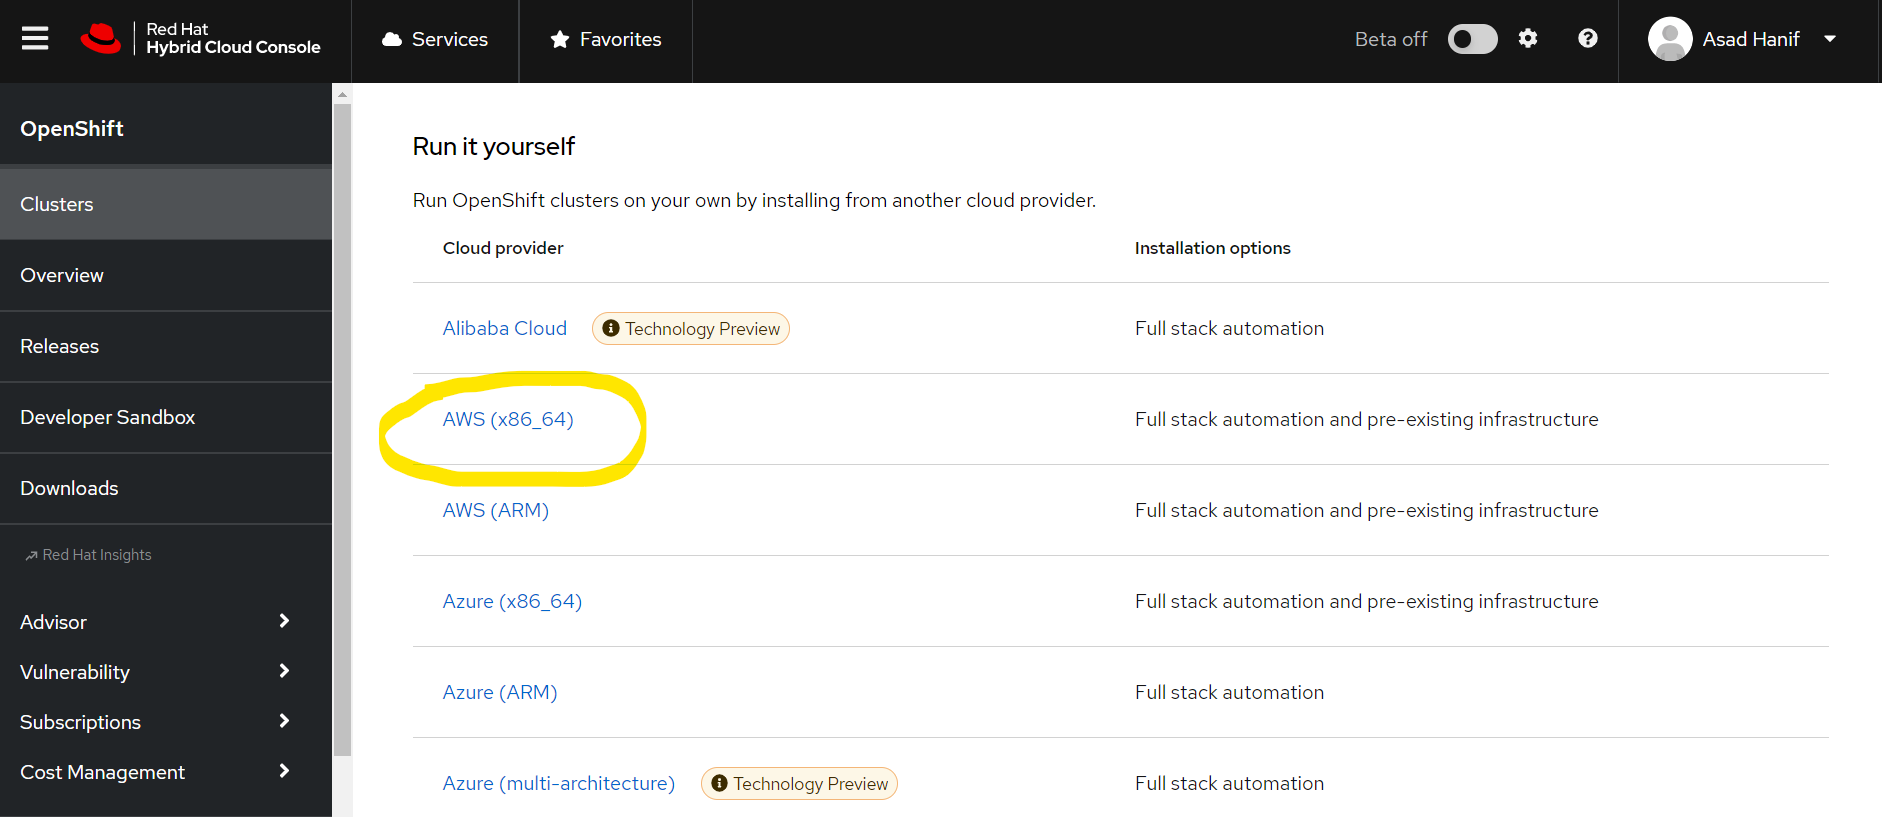
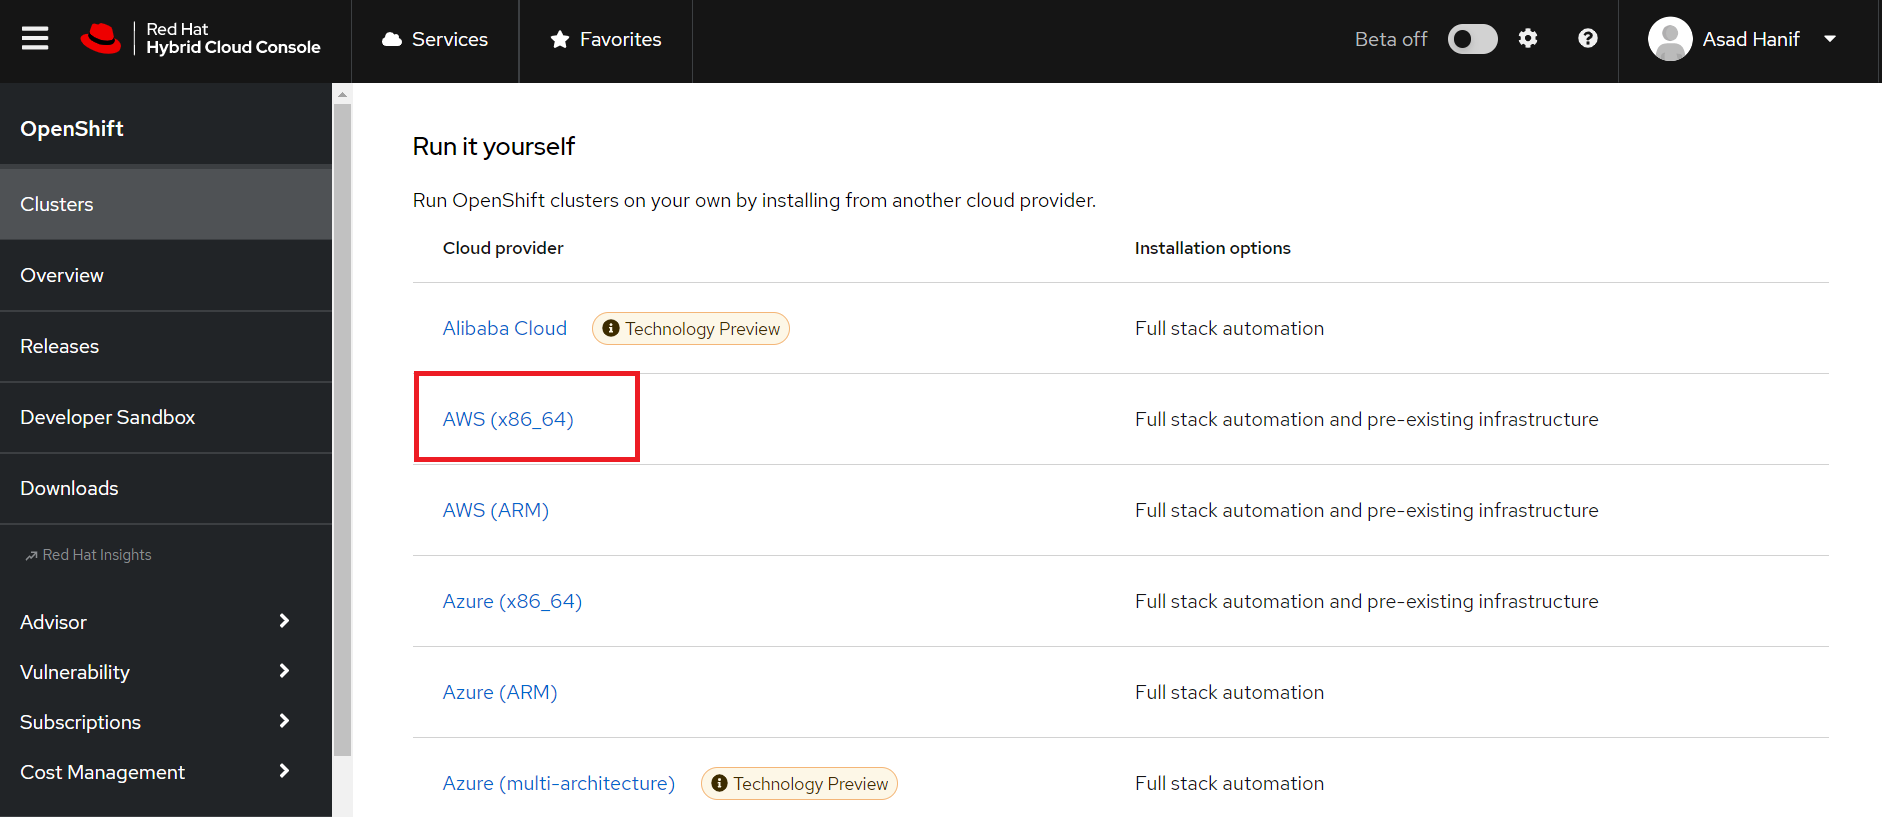
Setup Cluster on OpenShift Console

Changed region(s): [[0.1849, 0.4284, 0.339, 0.612], [0.339, 0.4896, 0.3698, 0.5508]]

diff --git a/README.md b/README.md
@@ -92,20 +92,31 @@ If the ssh-agent process is not already running for local user, start it as a ba
 
 **Note:** When we install OpenShift Container Platform, we'll provide the SSH public key to the installation program.
 
-## Step 4: Installing a cluster on AWS with customizations
+## Step 4: Setup Cluster on OpenShift Console 
 
 **Step 4 (a):** Go to the [OpenShift Console](https://console.redhat.com/openshift) to manage the cluster. 
 
 <img src="./screenshots/6-openshift-console.png" width="90%" />
 
-**Step 4 (b):** Click on the **Create Cluster** button, following screen will be shown. Scrolldown to see the **Run it yourself** option, as shown in 2nd image.  
+**Step 4 (b):** Click on the **Create Cluster** button, following screen will be shown. 
 
 <img src="./screenshots/7-Select-an-OpenShift-cluster-type.png" width="90%" />
 
+**Step 4 (c):** Scrolldown to see the **Run it yourself** option, as shown in following image.
+
 <img src="./screenshots/8-Run-it-yourself.png" width="90%" />
 
+**Step 4 (d):** Now click on **AWS (x86_64)** option. Following screen will be shown to choose the installation type. 
+
+<img src="./screenshots/9-select-the-installation-type.png" width="90%" />
+
+**Step 4 (e):** Click on **Full control** option to see the installation steps. 
+
+<img src="./screenshots/10-Install-OpenShift-on-AWS-steps.png" width="90%" />
 
 
+
+ 
 ## Step x: Installing a cluster on AWS with customizations
 In OpenShift Container Platform version 4.12, we can install a customized cluster on infrastructure that the installation program provisions on Amazon Web Services (AWS). To customize the installation, we need to modify parameters in the `install-config.yaml` file before installing the cluster.
 
